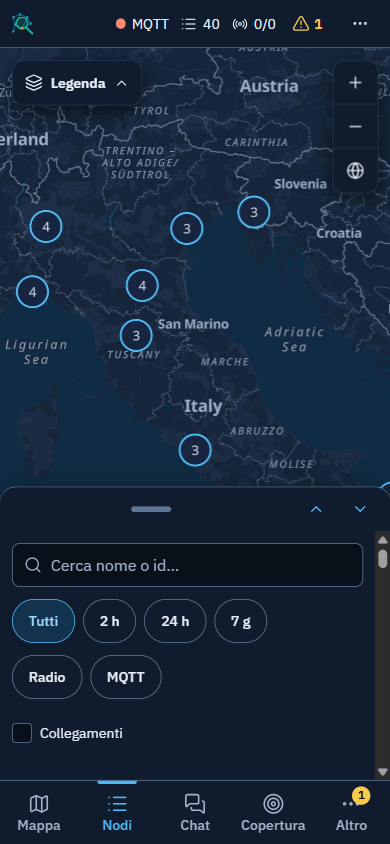
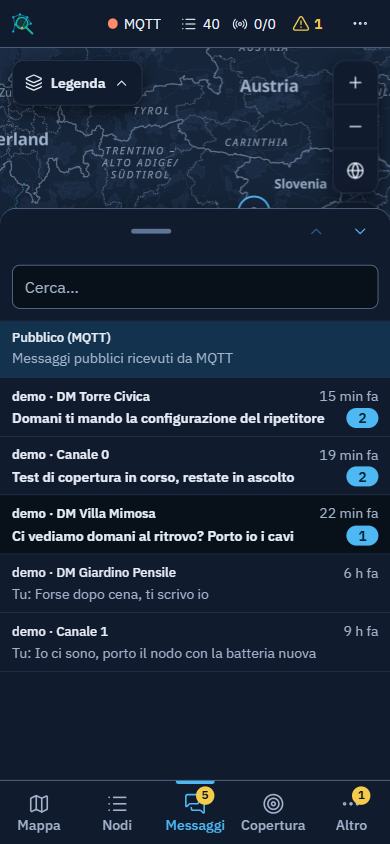
docs: nuovi screenshot per la 1.4.0 (dati dimostrativi)

diff --git a/tools/demo_seed.py b/tools/demo_seed.py
@@ -5,14 +5,24 @@ Poi:  meshlens run --data-dir CARTELLA_DATI
 
 Nodi, nomi e posizioni sono finti (citta' italiane con scostamenti casuali ma
 riproducibili). MQTT punta a 127.0.0.1:1, quindi resta sempre disconnesso.
+Comprende anche conversazioni (risposte, reazioni, PKI, non letti), waypoint, metriche,
+pacchetti e statistiche orarie, e una copertura prevista calcolata su un terreno sintetico.
 """
+import base64
+import json
+import math
 import random
 import sys
+import threading
 import time
+from concurrent.futures import ThreadPoolExecutor
 from pathlib import Path
+
+import numpy as np
 
 from meshlens.db import connect
 from meshlens.events import TelemetryData
+from meshlens.prediction import SiteParams, predict, sensitivity_dbm
 from meshlens.settings import save_settings
 from meshlens.store import Store
 
@@ -41,6 +51,224 @@ CHAT = [
     "Ripetitore acceso, controllate il segnale", "Grazie, ricevuto",
 ]
 DEMO_SEED = 20261121
+# conversazioni dimostrative: radio finta "demo", canali 0 (LongFast) e 1 (Escursioni)
+RADIO = "demo"
+PKI_NODE = 16   # indice in NAMES del nodo con cui c'e' un diretto cifrato (PKI) non letto
+DM_NODE = 20    # secondo diretto, gia' letto
+WAYPOINTS = [   # (id, indice nodo, nome, descrizione, icona, lat, lon)
+    (7001, 3, "Punto di ritrovo", "Ci vediamo qui sabato alle 9, portate le antenne.",
+     0x1F4CD, 43.7790, 11.2410),
+    (7002, 8, "Rifugio del Pino", "Aperto fino a ottobre, ripetitore sul tetto.",
+     0x26FA, 43.7520, 11.2850),
+    (7003, 5, "Ripetitore nuovo", "Installato ieri: provate il segnale da sud.",
+     0x1F4E1, 43.8015, 11.2105),
+]
+PRED_SITE = (41.95, 12.50)  # come la prova di copertura: a nord di Roma
+# (tipo, portnum, peso nel traffico)
+KINDS = [("telemetry", "TELEMETRY_APP", 30), ("position", "POSITION_APP", 22),
+         ("nodeinfo", "NODEINFO_APP", 12), ("text", "TEXT_MESSAGE_APP", 10),
+         ("neighbors", "NEIGHBORINFO_APP", 8), ("mapreport", "MAP_REPORT_APP", 8),
+         ("traceroute", "TRACEROUTE_APP", 4), ("rangetest", "RANGE_TEST_APP", 3)]
+
+
+class _HillyDem:
+    """Terreno sintetico (colline dolci) al posto del download delle altitudini."""
+
+    def sample(self, lats, lons):
+        return (150 + 60 * np.sin(lats * 55) * np.cos(lons * 50)
+                + 30 * np.sin((lats + lons) * 105) + 15 * np.cos((lats - lons) * 170))
+
+
+def _msg(store, key, frm, text, ago_min, now, *, to="!ffffffff", ch=0, packet_id=None,
+         reply_id=None, emoji=False, pki=False, out=False):
+    store.add_message({
+        "key": key, "from": f"!{frm:08x}", "to": to,
+        "channel": "LongFast" if ch == 0 else "Escursioni", "text": text,
+        "time": now - ago_min * 60, "country": "IT", "source": "rf",
+        "direction": "out" if out else "in", "radio_id": RADIO, "channel_index": ch,
+        "packet_id": packet_id, "reply_id": reply_id, "emoji": emoji, "pki": pki,
+        "status": "acked" if out else None})
+
+
+def _seed_chat(store, nums, now) -> int:
+    me = nums[0]
+    n = nums.__getitem__
+    # canale LongFast: una risposta, reazioni sotto un messaggio, due messaggi non letti
+    _msg(store, "c0:1", n(10), "Buongiorno rete, qualcuno in ascolto dalla zona nord?", 190, now,
+         packet_id=5001)
+    _msg(store, "c0:2", n(11), "Ti sento 5/9 da Colle Sereno", 185, now, packet_id=5002,
+         reply_id=5001)
+    _msg(store, "c0:3", n(2), "Ripetitore acceso, controllate il segnale", 170, now, packet_id=5003)
+    for k, (who, em) in enumerate([(12, "\U0001F44D"), (13, "\U0001F44D"), (14, "\U0001F4E1")]):
+        _msg(store, f"c0:r{k}", n(who), em, 168 - k, now, packet_id=5010 + k, reply_id=5003,
+             emoji=True)
+    _msg(store, "c0:4", me, "Ricevuto, grazie! Provo il Range Test tra mezz'ora", 160, now,
+         packet_id=5004, reply_id=5003, out=True)
+    _msg(store, "c0:5", n(15), "Sentito forte e chiaro anche dal Passo", 45, now, packet_id=5005)
+    _msg(store, "c0:6", n(9), "Test di copertura in corso, restate in ascolto", 12, now,
+         packet_id=5006)
+    # canale Escursioni (letto)
+    _msg(store, "c1:1", n(21), "Sabato giro ad anello, partenza da Pieve Nord alle 8", 600, now,
+         ch=1, packet_id=5101)
+    _msg(store, "c1:2", me, "Io ci sono, porto il nodo con la batteria nuova", 590, now, ch=1,
+         packet_id=5102, out=True)
+    # diretto cifrato (PKI), non letto
+    peer = n(PKI_NODE)
+    mine, theirs = f"!{me:08x}", f"!{peer:08x}"
+    _msg(store, "d1:1", me, "Ciao, hai provato il nuovo firmware?", 120, now, to=theirs,
+         packet_id=5201, pki=True, out=True)
+    _msg(store, "d1:r1", peer, "👍", 29, now, to=mine, packet_id=5210, reply_id=5201,
+         emoji=True, pki=True)
+    _msg(store, "d1:2", peer, "Si', molto meglio la stabilita' del collegamento", 28, now,
+         to=mine, packet_id=5202, reply_id=5201, pki=True)
+    _msg(store, "d1:r2", me, "🙌", 20, now, to=theirs, packet_id=5211, reply_id=5202,
+         emoji=True, pki=True, out=True)
+    _msg(store, "d1:3", peer, "Domani ti mando la configurazione del ripetitore", 8, now,
+         to=mine, packet_id=5203, pki=True)
+    # terzo diretto, non letto
+    third = n(24)
+    _msg(store, "d3:1", third, "Ci vediamo domani al ritrovo? Porto io i cavi", 15, now,
+         to=mine, packet_id=5401)
+    # secondo diretto, letto
+    other = n(DM_NODE)
+    _msg(store, "d2:1", other, "Sei in zona Belvedere stasera?", 400, now, to=mine, packet_id=5301)
+    _msg(store, "d2:2", me, "Forse dopo cena, ti scrivo io", 390, now, to=f"!{other:08x}",
+         packet_id=5302, out=True)
+    # lo storico conta come non letto, salvo cio' che e' segnato come letto
+    store.conn.execute("INSERT OR REPLACE INTO settings(key, value) VALUES('conv_read_baseline', '0')")
+    store.mark_read(f"ch:{RADIO}:0", now - 100 * 60)
+    store.mark_read(f"ch:{RADIO}:1", now)
+    store.mark_read(f"dm:{RADIO}:!{other:08x}", now)
+    store.mark_read(f"dm:{RADIO}:{theirs}", now - 100 * 60)
+    return peer
+
+
+def _seed_metrics(store, rng, nums, now) -> None:
+    weather = nums[NAMES.index("Stazione Meteo")]
+    for k in range(96):
+        t = now - (96 - k) * 1800
+        day = math.sin((k % 48) / 48 * 2 * math.pi - 2)
+        store.add_metrics(weather, t, "environment", {
+            "temperature": round(14 + 6 * day + rng.uniform(-0.4, 0.4), 1),
+            "relative_humidity": round(62 - 15 * day + rng.uniform(-2, 2)),
+            "barometric_pressure": round(1014 + 3 * math.sin(k / 30) + rng.uniform(-0.3, 0.3), 1)})
+
+
+def _summary(kind, rng, nums, who, lat, lon) -> dict:
+    if kind == "telemetry":
+        return {"battery_level": rng.randint(30, 100), "voltage": round(rng.uniform(3.6, 4.1), 2),
+                "channel_utilization": round(rng.uniform(1, 18), 1),
+                "air_util_tx": round(rng.uniform(0, 3), 1), "uptime_seconds": rng.randint(600, 900000),
+                "variant": "device", "metrics": {}}
+    if kind == "position":
+        return {"lat": round(lat, 5), "lon": round(lon, 5), "alt": rng.randint(20, 900),
+                "precision_bits": 32, "time": None}
+    if kind == "nodeinfo":
+        return {"long_name": NAMES[who], "short_name": f"D{who:03d}"[:4],
+                "hw_model": rng.choice(HW), "role": rng.choice(ROLES), "public_key": None}
+    if kind == "text":
+        return {"text": rng.choice(CHAT), "reply_id": None, "emoji": False}
+    if kind == "neighbors":
+        return {"neighbors": [{"node": f"!{nums[(who + d) % len(nums)]:08x}",
+                               "snr": round(rng.uniform(-12, 8), 1)} for d in (1, 2, 3)]}
+    if kind == "mapreport":
+        return {"long_name": NAMES[who], "firmware": "2.7.11", "region": "EU_868",
+                "lat": round(lat, 5), "lon": round(lon, 5),
+                "num_online_local_nodes": rng.randint(2, 20)}
+    if kind == "traceroute":
+        return {"route": [f"!{nums[(who + 1) % len(nums)]:08x}"],
+                "snr_towards": [round(rng.uniform(-8, 8), 1)]}
+    return {"seq": rng.randint(1, 500)}
+
+
+def _seed_packets(store, rng, nums, now) -> None:
+    """Aggregati orari (48 ore) per le statistiche e pacchetti recenti per l'ispettore."""
+    kinds = [k for k, _, _ in KINDS]
+    weights = [w for _, _, w in KINDS]
+    port = {k: p for k, p, _ in KINDS}
+    hour0 = int(now // 3600) * 3600
+    node_acc: dict[tuple, list] = {}
+    for h in range(48, -1, -1):
+        t = hour0 - h * 3600
+        day = 0.55 + 0.45 * math.sin(((t // 3600) % 24 - 6) / 24 * 2 * math.pi)
+        for kind, w in zip(kinds, weights):
+            for source, share in (("rf", 0.7), ("mqtt", 2.0)):
+                p = int(w * day * share * rng.uniform(2.5, 4))
+                if p:
+                    store.upsert_stats_hourly([(t, source, kind, p, p * rng.randint(1, 3))])
+        for i, num in enumerate(nums):
+            for source in ("rf", "mqtt"):
+                if source == "rf" and i >= 12:
+                    continue
+                if rng.random() < 0.25 + 0.6 * day * (0.9 if i < 20 else 0.4):
+                    pk = max(1, int(rng.uniform(1, 9) * (45 - i) / 22))
+                    snr = round(rng.uniform(-14, 9), 1)
+                    acc = node_acc.setdefault((t, num, source), [0, 0.0, 0, None])
+                    acc[0] += pk
+                    acc[1] += snr * pk
+                    acc[2] += pk
+                    acc[3] = snr if acc[3] is None else max(acc[3], snr)
+    store.upsert_node_hourly([(*k, *v) for k, v in node_acc.items()])
+    # pacchetti singoli: circa 220 nell'ultima ora, piu' radi nelle ore precedenti
+    city_list = list(CITIES.values())
+    rows = []
+    for k in range(470):
+        age = rng.uniform(0, 3500) if k < 220 else rng.uniform(3600, 5 * 3600)
+        kind = rng.choices(kinds, weights)[0]
+        who = rng.randrange(len(nums))
+        clat, clon = city_list[who % len(city_list)]
+        source = rng.choice(["mqtt", "mqtt", "rf"])
+        hs = rng.choice([3, 3, 3, 5, 7])
+        hops = rng.randint(0, min(3, hs))
+        status, shown = "ok", kind
+        if rng.random() < 0.08:
+            status, shown = rng.choice(["encrypted", "undecodable"]), None
+        raw = rng.randbytes(rng.randint(16, 90))
+        t = now - age
+        rec = [{"source": source, "broker": "demo" if source == "mqtt" else None,
+                "radio_id": RADIO if source == "rf" else None,
+                "gateway": f"!{nums[rng.randrange(6)]:08x}", "snr": round(rng.uniform(-14, 9), 1),
+                "rssi": rng.randint(-125, -60), "hops": hops, "relay_node": nums[who] & 0xFF,
+                "time": t}]
+        copies = rng.choice([1, 1, 1, 2, 3])
+        for _ in range(copies - 1):
+            rec.append({**rec[0], "gateway": f"!{nums[rng.randrange(6)]:08x}",
+                        "snr": round(rng.uniform(-14, 9), 1), "time": t + rng.uniform(0.1, 3)})
+        summary = (json.dumps(_summary(shown, rng, nums, who, clat + rng.uniform(-.05, .05),
+                                       clon + rng.uniform(-.05, .05))) if shown else None)
+        rows.append({
+            "time": t, "from_num": nums[who], "to_num": 0xFFFFFFFF,
+            "packet_id": 0x3A000000 + k * 7919, "source": source, "broker": rec[0]["broker"],
+            "radio_id": rec[0]["radio_id"], "channel": "LongFast",
+            "portnum": port[shown] if shown else None, "kind": shown, "status": status,
+            "snr": rec[0]["snr"], "rssi": rec[0]["rssi"], "hops": hops, "hop_start": hs,
+            "hop_limit": hs - hops, "relay_node": rec[0]["relay_node"],
+            "gateway": rec[0]["gateway"], "copies": copies, "receptions": json.dumps(rec),
+            "raw": raw, "size": len(raw), "summary": summary})
+    rows.sort(key=lambda r: r["time"])
+    store.insert_packets(rows)
+
+
+def _seed_prediction(out_dir: Path, rng, now) -> None:
+    """Copertura prevista conclusa, calcolata sul terreno sintetico (nessun download)."""
+    sp = SiteParams(lat=PRED_SITE[0], lon=PRED_SITE[1], height_m=25, radius_km=15)
+    grid = predict(sp, _HillyDem(), lambda: ThreadPoolExecutor(4), lambda done, total: None,
+                   threading.Event())
+    w, _s, e, _n = grid.bbox
+    cell_m = math.radians((e - w) / grid.width) * 6_371_000.0 * math.cos(math.radians(sp.lat))
+    covered = int(np.count_nonzero((grid.values != -128) & (grid.values >= 0)))
+    pid = f"p{int(now) - 1800}-{rng.getrandbits(24):06x}"
+    meta = {"id": pid, "name": "Base Colli, antenna sul tetto", "created": now - 1800,
+            "params": {k: getattr(sp, k) for k in sp.__dataclass_fields__},
+            "sensitivity_dbm": sensitivity_dbm(sp.preset), "eirp_dbm": sp.eirp_dbm,
+            "bbox": grid.bbox, "width": grid.width, "height": grid.height,
+            "covered_km2": round(covered * cell_m * cell_m / 1e6, 1)}
+    doc = {**meta, "nodata": -128,
+           "values": base64.b64encode(grid.values.astype(np.int8).tobytes()).decode("ascii")}
+    d = out_dir / "predictions"
+    d.mkdir(parents=True, exist_ok=True)
+    (d / f"{pid}.json").write_text(json.dumps(doc), encoding="utf-8")
+    (d / f"{pid}.meta.json").write_text(json.dumps(meta), encoding="utf-8")
 
 
 def build(out_dir: Path | str, now: float | None = None) -> dict:
@@ -101,12 +329,23 @@ def build(out_dir: Path | str, now: float | None = None) -> dict:
         if k % 7 != 3:  # qualche punto mancante
             store.add_point(sid, 0, k, t, round(8 - k * 0.3 + rng.uniform(-2, 2), 1),
                             -70 - k, rng.randint(0, 1), lat, lon, 32)
+    # conversazioni, waypoint, metriche ambientali, pacchetti e statistiche
+    peer = _seed_chat(store, nums, now)
+    for wid, who, name, desc, icon, lat, lon in WAYPOINTS:
+        store.upsert_waypoint({
+            "id": wid, "from_num": nums[who], "lat": lat, "lon": lon, "name": name,
+            "description": desc, "icon": icon, "expire": int(now) + 5 * 86400, "locked_to": 0,
+            "time": now - rng.randint(3600, 86400), "source": "rf", "radio_id": RADIO,
+            "channel": "LongFast", "country": "IT"})
+    _seed_metrics(store, rng, nums, now)
+    _seed_packets(store, rng, nums, now)
     store.commit()
+    _seed_prediction(out_dir, rng, now)
     # MQTT resta disconnesso: broker locale su una porta chiusa
     save_settings(conn, {"mqtt": {"host": "127.0.0.1", "port": 1, "topics": []},
-                         "saved_countries": ["IT"]})
+                         "saved_countries": ["IT"], "packet_log_mode": "archived"})
     conn.close()
-    return {"nodes": len(NAMES), "session": sid, "base": base}
+    return {"nodes": len(NAMES), "session": sid, "base": base, "pki_peer": peer}
 
 
 def main(argv: list[str] | None = None) -> int:
